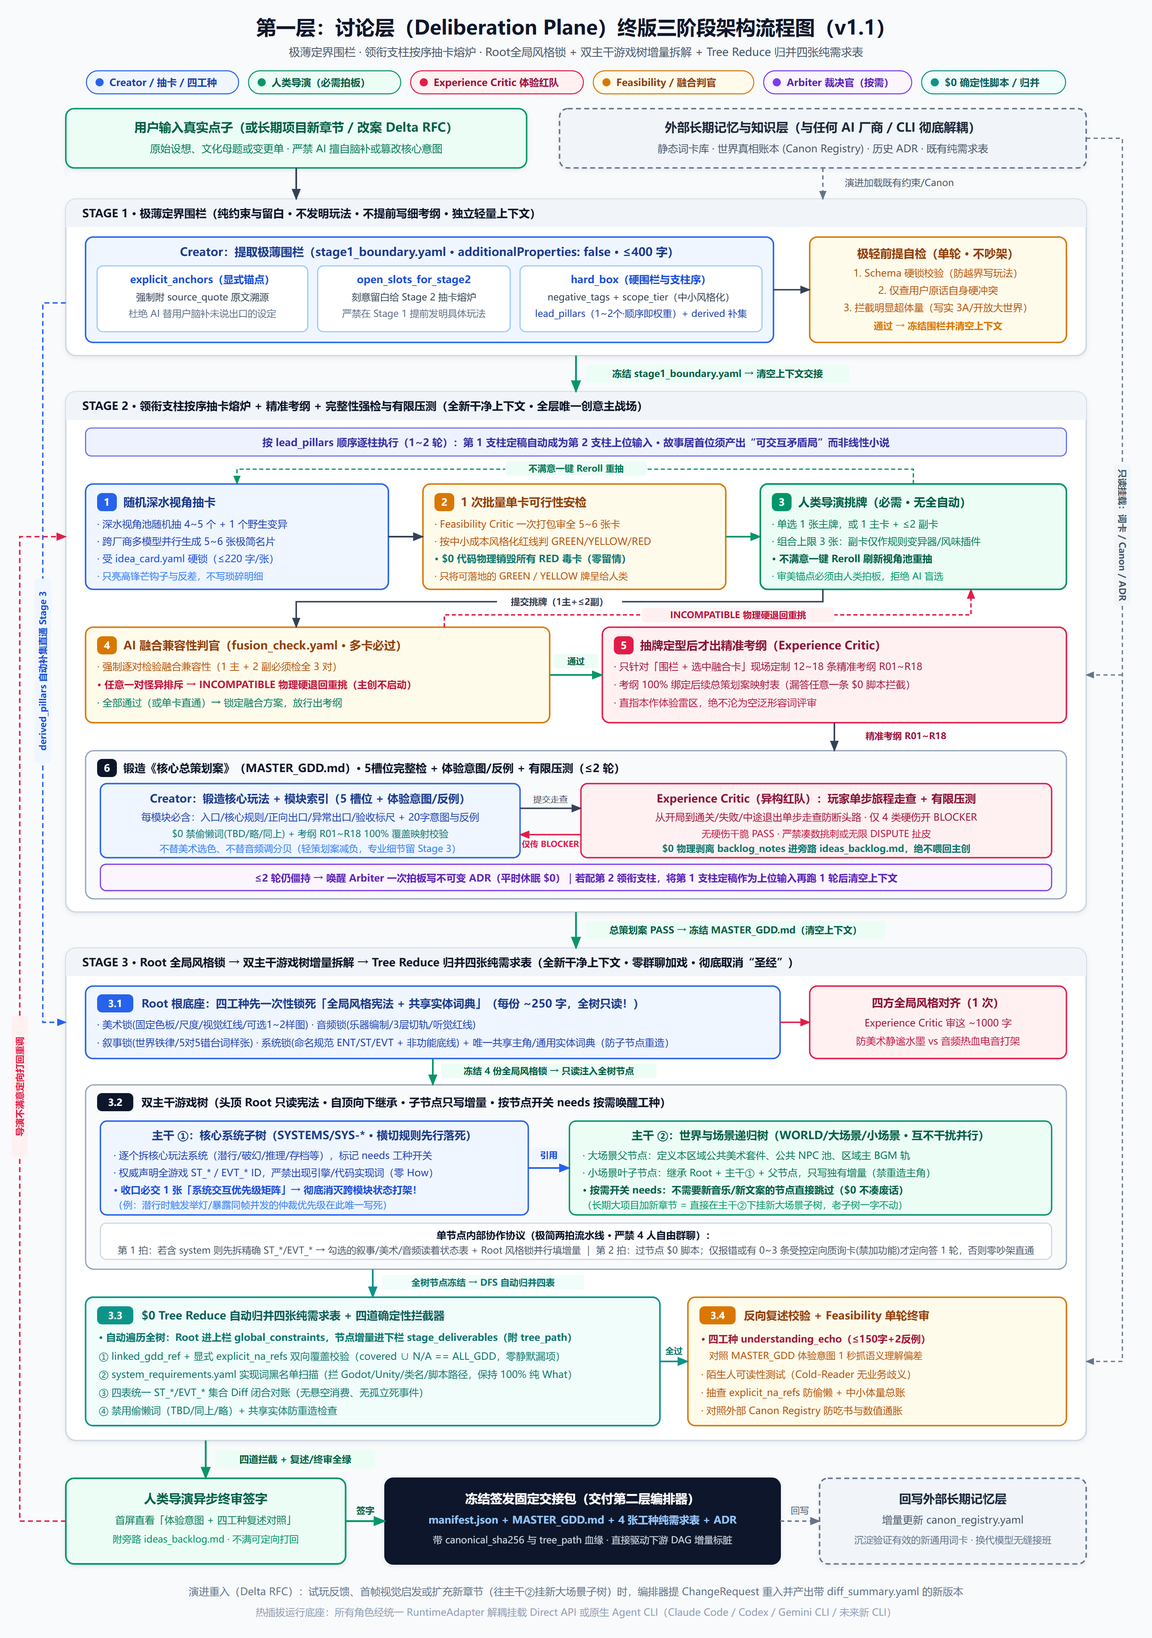
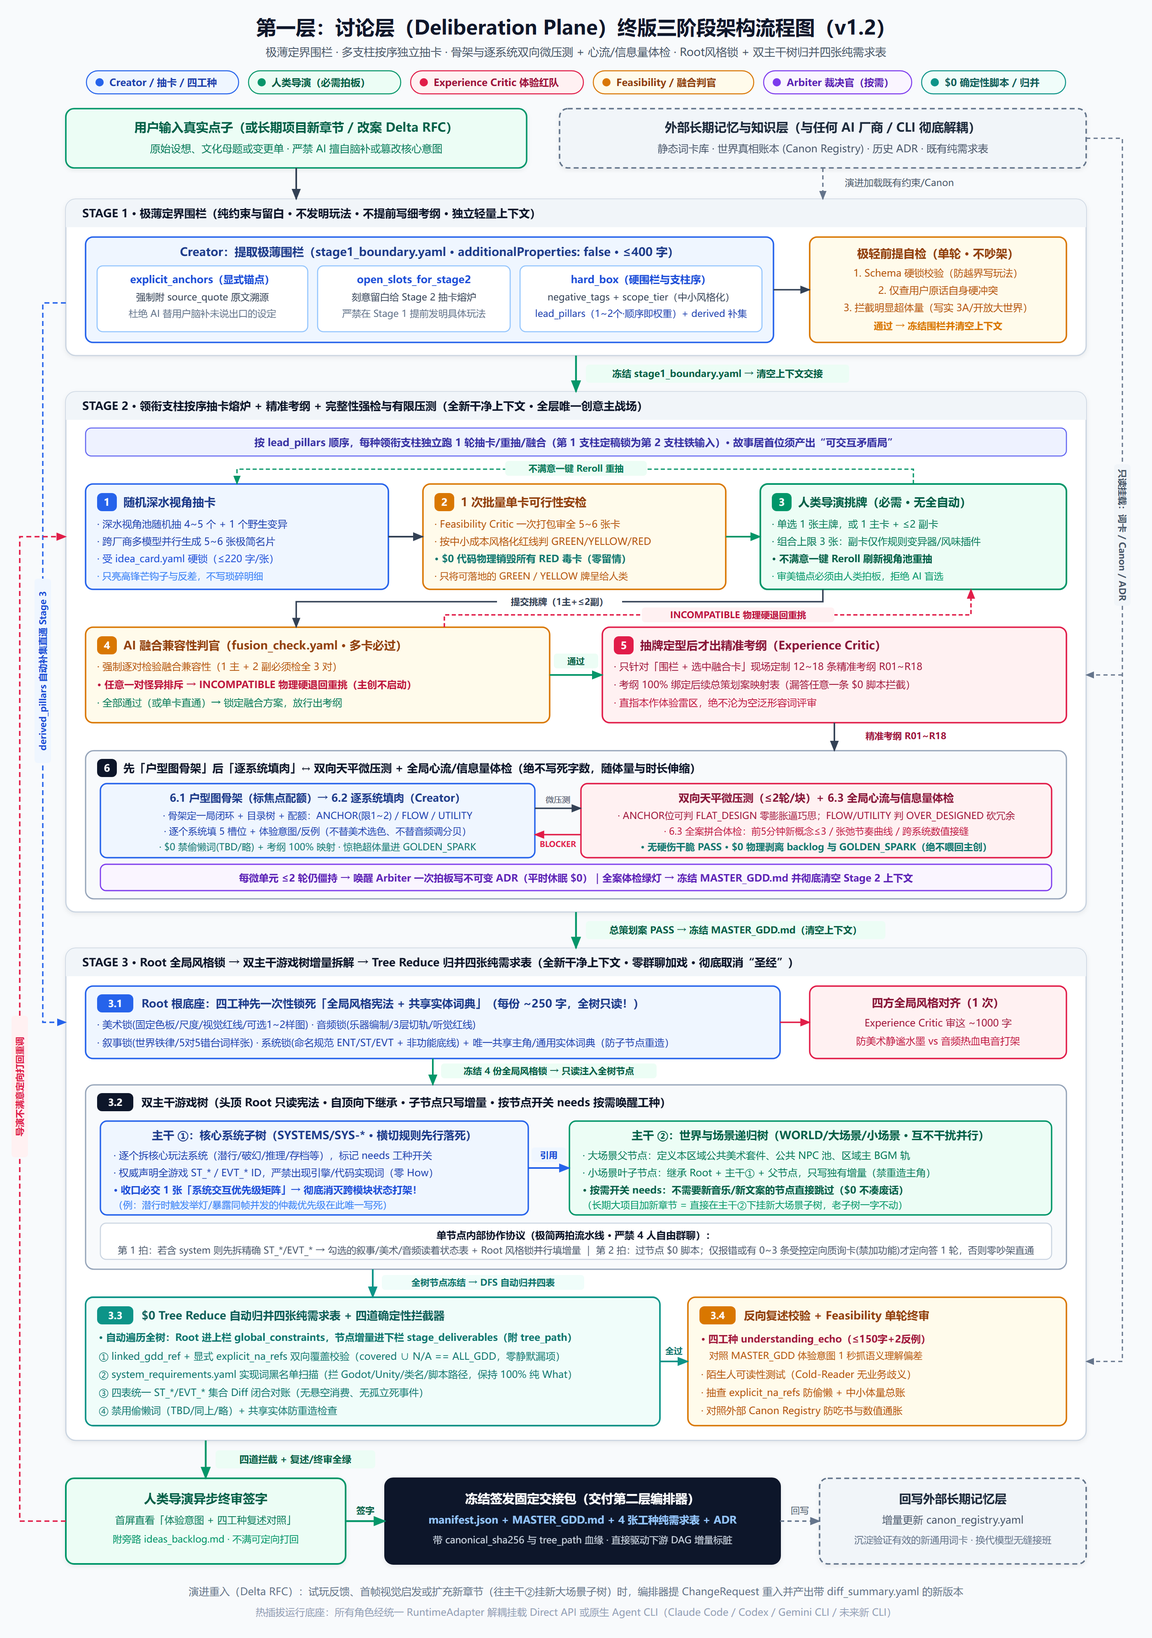
docs(deliberation): 升级至 v1.2（明确多支柱独立抽卡、户型图骨架与逐系统双向微压测、ANCHOR/FLOW/UTILITY焦点配额及心流信息量体检）

Changed region(s): [[0.1243, 0.4673, 0.8389, 0.5608], [0.2175, 0.2492, 0.5593, 0.2804], [0.5904, 0.2492, 0.7768, 0.2804]]

diff --git a/docs/deliberation_layer_spec.md b/docs/deliberation_layer_spec.md
@@ -1,9 +1,9 @@
-# 第一层：讨论层（Deliberation Plane）终版工程设计规范（v1.1）
+# 第一层：讨论层（Deliberation Plane）终版工程设计规范（v1.2）
 
 > [!IMPORTANT]
-> 本规范为 **2D / 轻 2.5D 风格化游戏多 Agent 工作流（v5.0 重构版）** 中 **第一层（讨论层）** 的终版工程规约（**v1.1 强化版**，在 v1.0 固定契约基础上补齐了**策划案 5 槽位完整性校验**、**Stage 3 Root 全局风格锁 + 双主干游戏树增量拆解**与**反向复述语义防歪机制**，对编排器接口 100% 向后兼容）。
+> 本规范为 **2D / 轻 2.5D 风格化游戏多 Agent 工作流（v5.0 重构版）** 中 **第一层（讨论层）** 的终版工程规约（**v1.2 节奏与微压测强化版**，在 v1.0/v1.1 基础上明确了**多支柱分轮各自独立抽卡/重抽/融合**、**户型图骨架 + 焦点配额 `ANCHOR/FLOW/UTILITY` + 逐系统填肉双向天平微压测**与**前 5 分钟信息量/张弛心流全局体检**，对编排器接口 100% 向后兼容）。
 >
-> 核心定位：**极薄定界围栏 · 领衔支柱按序抽卡熔炉 · Root 全局风格锁 + 双主干游戏树增量拆解 + Tree Reduce 归并四张纯需求表 · 跨阶段清空上下文 · 彻底取消“圣经”只管 What 不教 How**。
+> 核心定位：**极薄定界围栏 · 多支柱按序抽卡熔炉 · 骨架与逐系统双向微压测 · Root 全局风格锁 + 双主干游戏树增量拆解 + Tree Reduce 归并四张纯需求表 · 跨阶段清空上下文 · 只管 What 不教 How**。
 >
 > 若你是第二层（编排器）开发者，请直接对接冻结接口文档：**[第一层 → 编排器固定输出契约（layer1_to_orchestrator_contract.md）](layer1_to_orchestrator_contract.md)**。
 
@@ -43,8 +43,8 @@ flowchart TD
     S2Pick["Stage 2 Step 3：人类导演必需挑牌（单选1张 或 1主+≤2副上限3张，不满一键 Reroll）"]
     S2Fusion["Stage 2 Step 4：AI 融合兼容性判官 fusion_check.yaml（强制逐对检验，任意一对怪异物理硬退回）"]
     S2Rubric["Stage 2 Step 5：抽牌定型后 Experience Critic 出 12~18 条精准考纲 R01~R18"]
-    S2Forge["Stage 2 Step 6A：Creator 锻造 MASTER_GDD.md（5槽位+体验意图/反例 + 100%考纲映射）"]
-    S2Stress["Stage 2 Step 6B：异构 Experience Critic 玩家单步旅程走查与有限压测（≤2轮，剥离 backlog_notes）"]
+    S2Forge["Stage 2 Step 6.1~6.2：先拼户型图骨架(标 ANCHOR/FLOW/UTILITY 焦点配额)↔红队反驳，再逐系统填肉↔双向微压测"]
+    S2Stress["Stage 2 Step 6.3：全局心流与信息量体检（前5分钟≤3新概念/张弛节奏/跨系统接缝/100%考纲映射，剥离 backlog 与 GOLDEN_SPARK）"]
     S2Arbiter["Stage 2 Arbiter：2轮仍僵持时一次拍板写不可变 ADR（平时休眠 $0）"]
 
     S3Root["Stage 3.1 Root 根底座：四工种一次性锁死全局风格宪法 + 共享实体词典（Experience Critic 1次四方对齐）"]
@@ -212,42 +212,53 @@ hard_box:
 
 ---
 
-### Stage 2：领衔支柱按序抽卡熔炉 + 精准考纲 + 有限压测（全新干净上下文）
+### Stage 2：多支柱按序抽卡熔炉 + 精准考纲 + 骨架与逐系统双向微压测（全新干净上下文）
 
-**定位**：全层**唯一核心创意主战场**。按 `lead_pillars` 数组顺序执行 **1~2 轮**：
-* 第 1 领衔支柱定稿后自动锁定，作为第 2 领衔支柱的不可违背上位输入；
+**定位**：全层**唯一核心创意主战场**。按 `lead_pillars` 数组顺序，**为每一种领衔支柱独立执行 1 轮抽卡、重抽与融合（1~2 轮）**：
+* **每种领衔支柱拥有独立卡池**：例如 `lead_pillars = ["narrative", "gameplay"]` 时，第 1 轮独立抽**故事卡池**（可单独 `Reroll`、挑 `1 主 + ≤2 副` 故事卡融合 → 锁定**【故事融合定稿】**）；第 2 轮带着【故事融合定稿】作为铁上位输入，独立抽**玩法卡池**（可单独 `Reroll`、挑 `1 主 + ≤2 副` 玩法卡融合 → 锁定**【玩法融合定稿】**）。换成 `玩法 → 美术` 或 `故事 → 美术` 完全同构；
 * **故事领衔铁律**：当 `narrative` 排在 `lead_pillars[0]` 时，抽卡与定稿产出必须是**“玩家可操作、有明确代价与反馈的可交互矛盾局”**，严禁产出只能被动翻页的线性纯小说大纲。
 
 #### 6 步标准化执行流
 
-1. **Step 1 · 随机深水视角抽卡**
-   * 代码从动态深水视角池随机抽取 **4~5 个结构化深水视角** + **1 个高反差野生变异视角**，分发给跨厂商多模型并行生成 **5~6 张极简名片**；
+1. **Step 1 · 当前支柱随机深水视角抽卡**
+   * 代码针对当前领衔支柱，从动态深水视角池随机抽取 **4~5 个结构化深水视角** + **1 个高反差野生变异视角**，分发给跨厂商多模型并行生成 **5~6 张极简名片**；
    * 每张名片严格受 `idea_card.yaml` 锁死（**≤ 220 字/张**，禁写琐碎数值与实现），只亮出最锋利的核心钩子、核心抉择/循环与反差张力。
 2. **Step 2 · 1 次批量单卡可行性安检**
    * `Feasibility Critic` **一次性打包审全 5~6 张卡**（严禁逐卡展开多轮对话），按中小成本风格化红线逐张给出 `GREEN / YELLOW / RED` 分级与一句风险标注；
    * **$0 代码物理销毁所有 `RED` 毒卡**，只将 `GREEN / YELLOW` 牌呈递给人类导演。
 3. **Step 3 · 人类导演挑牌（必需，无全自动模式）**
-   * 人类导演亲自从过检手牌中做出选择：
-     * **单选 1 张主卡**（直通 Step 5）；或
+   * 人类导演亲自从当前支柱过检手牌中做出选择：
+     * **单选 1 张主卡**（直通兼容通过）；或
      * **组合挑牌：`1 主卡 + ≤2 副卡`（硬上限 3 张）**，明确声明副卡只作为**规则变异器（rule_mutator）**或**风味插件（flavor_plugin）**，严禁把 3 个完整主玩法硬揉成缝合怪；
-   * 若手牌全部缺乏灵气，人类一键触发 **`Reroll`** 刷新视角池重抽。
+   * 若本支柱手牌全部缺乏灵气，人类一键触发 **`Reroll`** 刷新当前支柱视角池重抽。
 4. **Step 4 · AI 融合兼容性判官（`fusion_check.yaml` · 多卡必过）**
-   * 只要人类选中 ≥2 张卡，必须先由 `Feasibility Critic`（判官视角）执行**强制逐对检验（Pairwise Check）**：
+   * 只要当前支柱选中 ≥2 张卡，必须先由 `Feasibility Critic`（判官视角）执行**强制逐对检验（Pairwise Check）**：
      * `1 主 + 1 副` 检 1 对；`1 主 + 2 副` **强制检全 3 对**（主↔副1、主↔副2、副1↔副2）；
    * 只要**任意一对**出现核心节奏冲突、情绪气味割裂或体量乘法爆炸，代码立即判 **`INCOMPATIBLE` 并物理硬退回 Step 3 重挑**——**主创绝不启动，绝不允许 AI 硬着头皮强缝！**
+   * 全部领衔支柱依次完成 Step 1~4 并分别锁定各自支柱融合定稿后，统一进入 Step 5。
 5. **Step 5 · 抽牌定型后才出精准考纲（`Experience Critic`）**
-   * 创意形态完全落袋后，`Experience Critic` 针对 `stage1_boundary.yaml` + 选中融合卡，查询外部静态词卡库并现场动态推导 **12~18 条精准考纲（`R01~R18`）**，直指本作真实体验雷区与必答设计题。
-6. **Step 6 · 锻造《核心总策划案》与完整性强检 + 有限压测（≤ 2 轮，无强迫 DISPUTE 吵架）**
-   * `Creator` 在围栏 + 融合卡 + 考纲 `R01~R18` 约束下锻造 **`MASTER_GDD.md`** 与 **`gdd_index.yaml`**（只写 What 与规则闭环；**绝不越权替美术选具体色值或替音频调分贝**，保持轻策划案减负）：
-     * **单模块 5 槽位 + 体验意图硬约束**：`gdd_index.yaml` 中每个模块 `GDD-Mxx` 必须填满 `entry_trigger`（入口）、`core_rules`（核心规则）、`win_exit`（正向出口）、`fail_exit`（失败/异常出口）、`acceptance_oracle`（验收标尺）以及 20~40 字的 **`experience_intent`（体验意图 + 禁止反例，例如“无声礼教凝视压迫感，绝非拔刀追杀或跳吓”）**；
-     * **$0 完整性脚本拦截**：扫描全文禁用 `同上 / 略 / 待定 / TBD / TODO / 以此类推` 等偷懒占位词，并强制校验 `rubric_coverage_map`（`R01~R18 → GDD-Mxx` 覆盖率必须 = **100%**）；
-   * 异构 `Experience Critic` 输出 `review_verdict.yaml` 执行 **玩家单步旅程走查（Player Journey Walkthrough）** 与有限压测（硬上限 **2 轮**）：
-     * 强制按时间轴走查“启动 → 主循环 → 胜负结算 → 失败惩罚 → 中途退出重进”，凡出现断头路即标 `MISSING_BOUNDARY`；
-     * 仅对 **4 类客观硬伤** 开 `BLOCKER`：① 规则/逻辑自相矛盾；② 漏写关键边界或使用未落地空话；③ 违背围栏/`Negative`/考纲必答项或与 `Canon` 吃书；④ 超出中小成本体量红线；
-     * 无客观硬伤必须干脆签发 **`PASS`**（严禁凑数挑刺、严禁无休止 `DISPUTE` 吵架）；
-     * 红队若顺带写了零星发散灵感（`backlog_notes`），**$0 代码将其物理剥离写入旁路 `ideas_backlog.md`**，绝不喂回 `Creator` 污染主线；
-   * 若 2 轮修订后仍僵持，唤醒 **`Arbiter`** 按优先级宪法一次拍板并写入不可变 `ADR`；
-   * 全部领衔支柱定稿后，**冻结 `MASTER_GDD.md` + `gdd_index.yaml` 并彻底清空 Stage 2 上下文**。
+   * 全部领衔支柱创意定型落袋后，`Experience Critic` 针对 `stage1_boundary.yaml` + 各领衔支柱融合定稿，查询外部静态词卡库并现场动态推导 **12~18 条精准考纲（`R01~R18`）**，直指本作真实体验雷区与必答设计题。
+6. **Step 6 · 先「户型图骨架」后「逐系统填肉」+ 焦点配额双向微压测 + 全局心流/信息量体检（绝不写死总字数，按游玩时长与系统个数弹性伸缩）**
+   * **6.1 合并出「户型图骨架」↔ 红队反对辩驳（≤ 2 轮）**：
+     * `Creator` 将各领衔支柱融合定稿拼合成精炼骨架：**多支柱融合说明 + 玩家完整一局流程（开局 → 核心循环 → 胜负/失败/存档重进）+ 双主干结构目录（核心系统清单 + 大/小场景目录树）**；
+     * **强制分配「焦点配额标签（`focus_tier`）」**，防止处处抖机灵毁掉心流：
+       * **`ANCHOR`（高光记忆位 · 全章严格限 1~2 个）**：本作最该出名场面的核心节点，配放神级巧思；
+       * **`FLOW`（心流承重位 · 占主体 60~70%）**：追求丝滑、直觉、低认知负担，严禁瞎抖机灵；
+       * **`UTILITY`（零感基建位）**：存档/设置/基础引导，必须像空气一样隐形，绝对禁止巧思干扰；
+     * 异构 `Experience Critic` 立刻反驳骨架（查多支柱拼合是否两张皮、玩家一局流程有无断头路、焦点配额与体量是否失控），过关冻结骨架（无硬伤干脆 1 轮 `PASS`）。
+   * **6.2 按目录「逐个系统填肉」↔ 双向天平微压测（每小块 ≤ 2 轮）**：
+     * `Creator` 每次只聚焦写 **1 个核心系统**（填满 5 槽位：`entry_trigger / core_rules / win_exit / fail_exit / acceptance_oracle` + 20~40 字 `experience_intent` 体验意图与反例；**绝不越权替美术选具体色值或替音频调分贝**）；
+     * 红队审每小块时按 `focus_tier` 掏**双向天平尺子**（仅限客观硬伤开 `BLOCKER`，无硬伤直接 `PASS`，严禁提功能加法建议，2 轮仍僵持交 `Arbiter` 拍板写 `ADR`）：
+       * 审 **`ANCHOR` 高光位**：除查逻辑边界外，若写得太温吞像教科书，可判 **`FLAT_DESIGN`（白开水硬伤）**，逼主创在**零新增系统、零涨体量**的镣铐下挖出神级微巧思；
+       * 审 **`FLOW` / `UTILITY` 位**：重点防信息过载与操作摩擦，若瞎抖机灵直接判 **`OVER_DESIGNED`（过度设计）** 打回做减法；
+     * **`GOLDEN_SPARK` 旁路通道**：若填肉时偶然撞出**略超体量但极惊艳的大火花**，严禁 AI 私自写进正文，单独摘录为置顶 `GOLDEN_SPARK`（≤100 字，标明体量代价）写入 `memory/ideas_backlog.md`，留待人类终审一键决定是否破格采纳。
+   * **6.3 全案拼合 + `$0` 完整性拦截 + 1 次「全局心流、信息量与接缝体检」**：
+     * `$0` 脚本扫描全文禁现 `同上 / 略 / 待定 / TBD / TODO`，并强制校验 `rubric_coverage_map`（考纲 `R01~R18` 覆盖率必须 = **100%**）；
+     * `Experience Critic` 做 1 次极轻的全局体验体检（不重审各系统内部细节）：
+       1. **开局前 5 分钟信息量红线（Onboarding Load）**：前 5 分钟抛给玩家的新概念/新规则超过 3 个即亮红灯，强制改为阶梯渐进解锁；
+       2. **张弛节奏曲线（Tension & Relief）**：检查高压博弈后是否留出低认知负担的消化/喘息段；
+       3. **巧思总密度上限 + 跨系统数值/节奏接缝复核**（防 `SYS-1` 惩罚过狠把 `SYS-2` 提前打死）；
+     * 全项通过后，**冻结 `MASTER_GDD.md` + `gdd_index.yaml` 并彻底清空 Stage 2 上下文**。
 
 #### Anti-Boundary-Crossing Schemas（Stage 2）
 
@@ -290,20 +301,25 @@ pairwise_checks:                        # 代码强制校验组合数 == C(N, 2)
 overall_verdict: "COMPATIBLE"           # 代码断言：任意一条 pairwise != COMPATIBLE 则强制 INCOMPATIBLE 并物理打回重挑
 ```
 
-**3. `review_verdict.yaml`（有限客观硬伤压测，`additionalProperties: false`）**
+**3. `review_verdict.yaml`（双向天平微压测，`additionalProperties: false`）**
 
 ```yaml
-schema_version: "review_verdict/v1"
-round: 1                                # 硬上限: 2
-target_artifact: "MASTER_GDD.md@v0.2"
+schema_version: "review_verdict/v1.2"
+round: 1                                # 每微单元硬上限: 2
+target_unit: "GDD-M02@v0.2"             # 骨架 SKELETON 或具体单个系统 GDD-Mxx
+focus_tier: "ANCHOR"                    # ANCHOR(可判 FLAT_DESIGN) | FLOW/UTILITY(可判 OVER_DESIGNED)
 decision: "REJECT"                      # 枚举: PASS | REJECT
 blockers:                               # decision==PASS 时必须为空数组 []
   - blocker_id: "BLK-01"
-    category: "MISSING_BOUNDARY"        # 仅限4类: LOGIC_CONTRADICTION | MISSING_BOUNDARY | RULE_OR_CANON_VIOLATION | SCOPE_OVERFLOW
+    category: "MISSING_BOUNDARY"        # 枚举: LOGIC_CONTRADICTION | MISSING_BOUNDARY | RULE_OR_CANON_VIOLATION | SCOPE_OVERFLOW | FLAT_DESIGN(仅ANCHOR) | OVER_DESIGNED(仅FLOW/UTILITY)
     rubric_ref: "R07"
     location: "GDD-M02 朝议质询循环"
     objective_defect: "未定义当疑心值达到 100% 且玩家恰好处于宵禁过渡帧时的结算优先级。"
     required_fix_scope: "补充状态触发先后顺序与异常兜底结果，禁止新增额外子系统。"
+golden_sparks:                          # 略超体量但极惊艳的高光提案 -> 置顶写入 ideas_backlog.md，仅人类可破格采纳
+  - title: "偏殿知情老宫女的秘密交易"
+    spark: "老宫女识破身份后不告发，但要求玩家替她毁掉一份陈年档案"
+    cost_delta: "+1 次要 NPC 差分立绘 + 1 条支线抉择"
 backlog_notes:                          # $0 代码物理剥离写入 memory/ideas_backlog.md，绝不回传 Creator！
   - "未来 DLC 可考虑追加一个市井说书人旁观视角彩蛋。"
 ```

diff --git a/README.md b/README.md
@@ -1,6 +1,6 @@
 # 2D / 轻 2.5D 风格化游戏多 Agent 工作流（v5.0 架构重构）
 
-> **当前阶段**：v5.0 全链路架构重构中 —— **第一层（讨论层 / Deliberation Plane）终版设计与面向第二层编排器的固定输出契约已彻底定稿并锁定**（最新 Tag：`deliberation/v1.1-tree-stage3`，100% 向后兼容 `deliberation/v1.0-contract-locked`）。
+> **当前阶段**：v5.0 全链路架构重构中 —— **第一层（讨论层 / Deliberation Plane）终版设计与面向第二层编排器的固定输出契约已彻底定稿并锁定**（最新 Tag：`deliberation/v1.2-pacing-micro-critique`，100% 向后兼容 `v1.0/v1.1`）。
 
 > [!TIP]
 > **⭐ 历史代码与文档回溯指南（重要）**
@@ -29,7 +29,7 @@
 
 * **完整工程规范**：**[docs/deliberation_layer_spec.md](docs/deliberation_layer_spec.md)**
   * **Stage 1 · 极薄定界围栏**：受 `stage1_boundary.yaml`（`additionalProperties: false`，≤400 字）硬锁，强制 `source_quote` 原文溯源，刻意留白不提前发明玩法，指定 `lead_pillars`（1~2 个，顺序即权重）与自动补集 `derived_pillars`。
-  * **Stage 2 · 领衔支柱按序抽卡熔炉 + 精准考纲 + 完整性强检与有限压测**：随机深水视角 + 野生变异跨厂商抽卡 → 1 次批量单卡可行性安检（物理销毁 `RED` 毒卡）→ 人类导演必需挑牌（单选或 `1 主 + ≤2 副` 上限 3 张，支持 `Reroll`）→ AI 逐对融合兼容性判官（任意一对怪异物理硬退回）→ 抽牌定型后生成 12~18 条精准考纲 → 锻造 `MASTER_GDD.md`（5 槽位强检 + 体验意图/反例 + 100% 考纲映射 + 玩家单步旅程走查，≤2 轮压测并剥离 `backlog_notes`）。
+  * **Stage 2 · 多支柱按序抽卡熔炉 + 骨架与逐系统双向微压测 + 心流/信息量体检**：按 `lead_pillars` 顺序，每种领衔支柱各自独立抽卡（深水视角 + 野生变异跨厂商抽 5~6 张）、批量可行性去毒、人类挑牌（`1 主 + ≤2 副` 上限 3 张，可各自 `Reroll`）、AI 逐对融合兼容拒融 → 定型后出 12~18 条精准考纲 → 先拼「户型图骨架」（标 `ANCHOR/FLOW/UTILITY` 焦点配额）↔ 红队反驳 → 再按目录「逐系统填肉」↔ 双向天平微压测（`ANCHOR` 可判 `FLAT_DESIGN` 逼出零膨胀微精彩，`FLOW/UTILITY` 可判 `OVER_DESIGNED` 防抖机灵毁心流，超体量惊艳灵感走 `GOLDEN_SPARK` 留人类破格拍板）→ 全局前 5 分钟信息量(≤3 新概念)/张弛节奏/跨系统接缝体检（不写死字数，随体量与游玩时长弹性伸缩）。
   * **Stage 3 · Root 全局风格锁 → 双主干游戏树增量拆解 → Tree Reduce 归并四张纯需求表**：先在 `Root` 锁死四大工种全局风格宪法与共享实体词典（1 次四方对齐）→ 主干 ① 核心系统子树（含《系统交互优先级矩阵》防接缝打架）→ 主干 ② 世界大场景→小场景继承增量树（按节点 `needs` 开关按需唤醒，节点内极简两拍流水线严禁 4 人自由群聊）→ `$0` `Tree Reduce` 自动归并四张纯需求表 + 四道确定性脚本拦截器（双向 `explicit_na_refs` 覆盖 / 无 How 黑名单 / `ST_*` & `EVT_*` 集合闭合 / 禁偷懒词）→ 四工种 `understanding_echo` 反向复述抓语义偏差 + `Feasibility Critic` 单轮终审 → 人类导演签字冻结签发。
 
 ![第一层讨论层终版三阶段架构流程图](docs/assets/deliberation_layer_flowchart.png)
@@ -40,8 +40,8 @@
 
 | 文档路径 | 角色 / 状态 | 说明 |
 | :--- | :--- | :--- |
-| **[docs/layer1_to_orchestrator_contract.md](docs/layer1_to_orchestrator_contract.md)** | **已锁定契约（v1.1 兼容 v1.0）** | 第一层 → 第二层编排器固定交接包规范、字段级 Schema（含 `tree_path` / `explicit_na_refs` / `understanding_echo` / 系统交互矩阵）与 Delta RFC 升版协议 |
-| **[docs/deliberation_layer_spec.md](docs/deliberation_layer_spec.md)** | **终版规范（v1.1）** | 第一层讨论层三阶段工程设计规范、Root 全局风格锁 + 双主干游戏树、热插拔 `RuntimeAdapter` 与防越界 Schema |
+| **[docs/layer1_to_orchestrator_contract.md](docs/layer1_to_orchestrator_contract.md)** | **已锁定契约（v1.2 兼容 v1.0）** | 第一层 → 第二层编排器固定交接包规范、字段级 Schema（含 `focus_tier` / `tree_path` / `explicit_na_refs` / `understanding_echo` / 系统交互矩阵）与 Delta RFC 升版协议 |
+| **[docs/deliberation_layer_spec.md](docs/deliberation_layer_spec.md)** | **终版规范（v1.2）** | 第一层讨论层三阶段工程设计规范、多支柱独立抽卡、骨架与逐系统双向微压测、心流/信息量体检、Root 全局风格锁 + 双主干游戏树 |
 | **[docs/assets/deliberation_layer_flowchart.png](docs/assets/deliberation_layer_flowchart.png)** | 高清架构图（2x DPI） | 第一层讨论层终版三阶段执行流程图 |
 | [docs/group4-process-design.pdf](docs/group4-process-design.pdf) | 课程基线 PDF（保留） | 第四组全流程软件工程过程设计基线文档 |
 | [docs/multi-agent-discussion-workflow-design-v1.2.pdf](docs/multi-agent-discussion-workflow-design-v1.2.pdf) | 课程基线 PDF（保留） | 上游多 Agent 讨论工作流设计基线 v1.2 |
